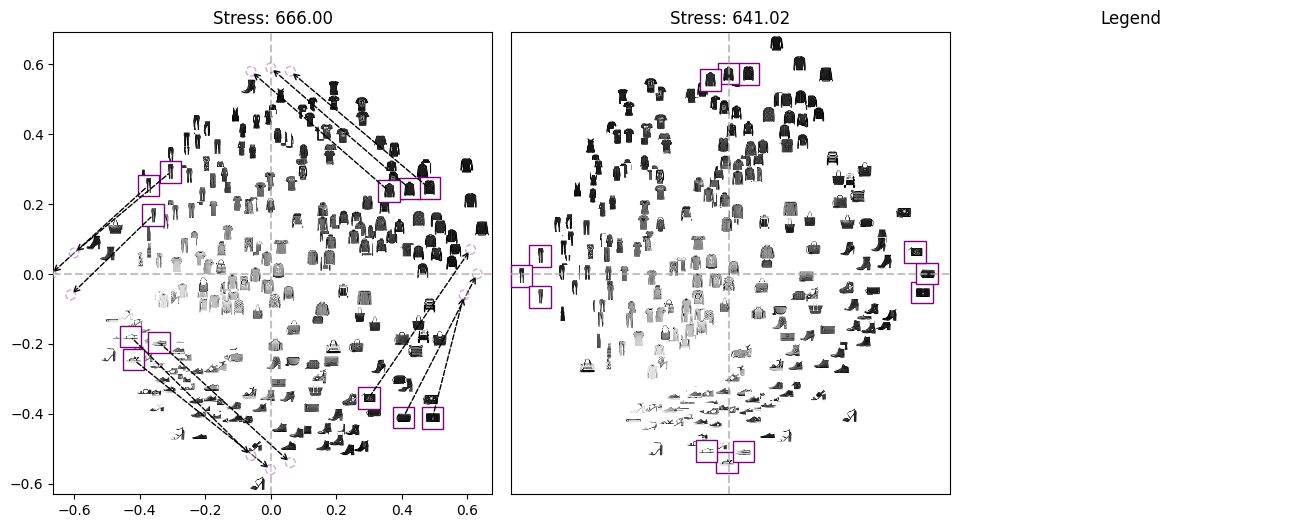
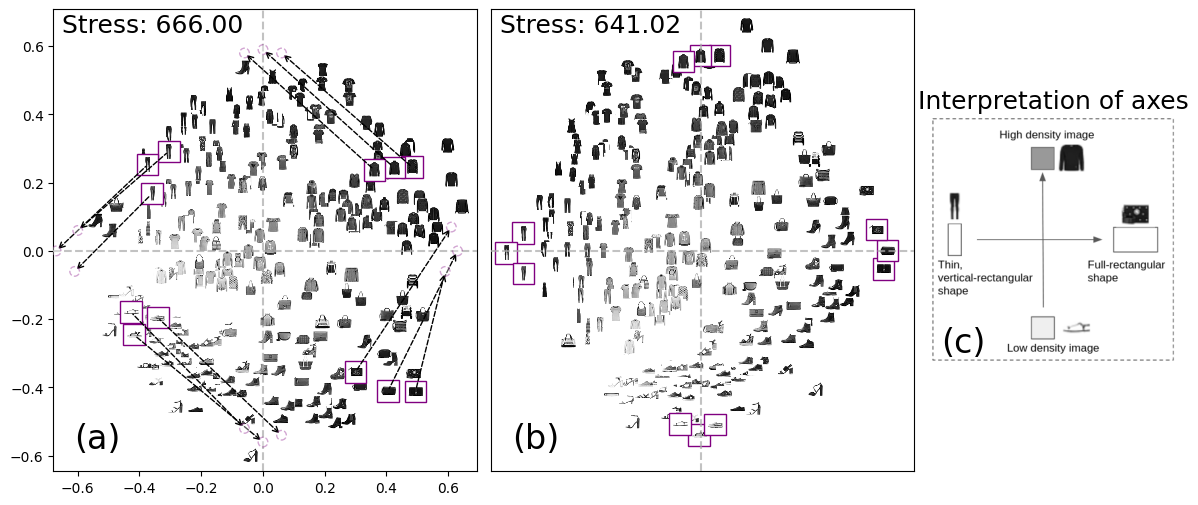
Figure for paper: fmnist

diff --git a/plot.py b/plot.py
@@ -387,15 +387,14 @@ def plot_image_dataset(
 ):
     from matplotlib.offsetbox import OffsetImage, AnnotationBbox
 
-    fig = plt.figure(figsize=(16, 6))
-    gs = fig.add_gridspec(1, 11)
-    ax0 = fig.add_subplot(gs[0, 0:4])
-    ax1 = fig.add_subplot(gs[0, 4:8])
-    ax2 = fig.add_subplot(gs[0, 8:])
+    fig = plt.figure(figsize=(14.5, 6))
+    gs = fig.add_gridspec(1, 13)
+    ax0 = fig.add_subplot(gs[0, 0:5])
+    ax1 = fig.add_subplot(gs[0, 5:10])
 
     Z = np.concatenate((Z0, Z1), axis=0)
-    xlims = 1.05 * np.percentile(Z[:, 0], [0, 100])
-    ylims = 1.05 * np.percentile(Z[:, 1], [0, 100])
+    xlims = 1.075 * np.percentile(Z[:, 0], [0, 100])
+    ylims = 1.075 * np.percentile(Z[:, 1], [0, 100])
 
     X = joblib.load(f"./embeddings/{dataset_name}_data.Z")
     img_size = int(math.sqrt(X.shape[1]))
@@ -423,11 +422,22 @@ def plot_image_dataset(
         _scatter_image(ax, Z, fixed_indices=fixed_indices)
         ax.set_xlim(xlims)
         ax.set_ylim(ylims)
-        ax.set_title(f"Stress: {stress:.2f}")
+        ax.text(
+            0.02, 0.95, f"Stress: {stress:.2f}", transform=ax.transAxes, fontsize=18
+        )
+        if dataset_name == "fmnist":
+            ax_idx = chr(ord("a") + i)
+            ax.text(0.05, 0.05, f"({ax_idx})", transform=ax.transAxes, fontsize=24)
 
     _show_moved_points(ax0, Z0[fixed_indices, :], np.array(des_pos), annote_src=False)
 
-    ax2.axis("off")
-    ax2.set_title("Legend")
+    if dataset_name == "fmnist":
+        ax2 = fig.add_subplot(gs[0, 10:])
+        ax2.axis("off")
+        ax2.set_title("Interpretation of axes", fontsize=18)
+        ax2.text(x=0.05, y=0.05, s="(c)", transform=ax2.transAxes, fontsize=24)
+        axes_img = plt.imread(f"./plots/MAP2/fmnist/axes.png")
+        img_pos = [-1.0, 1.0, -1.0, 1.0]
+        ax2.imshow(axes_img, extent=img_pos)
 
     fig.savefig(out_name, bbox_inches="tight")
